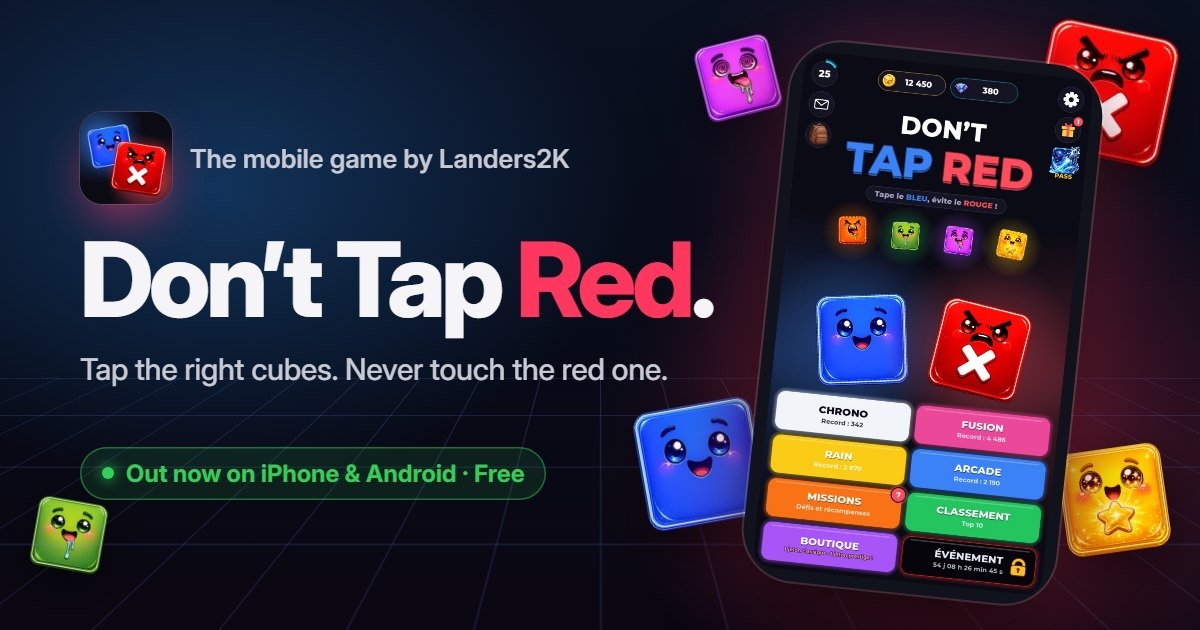
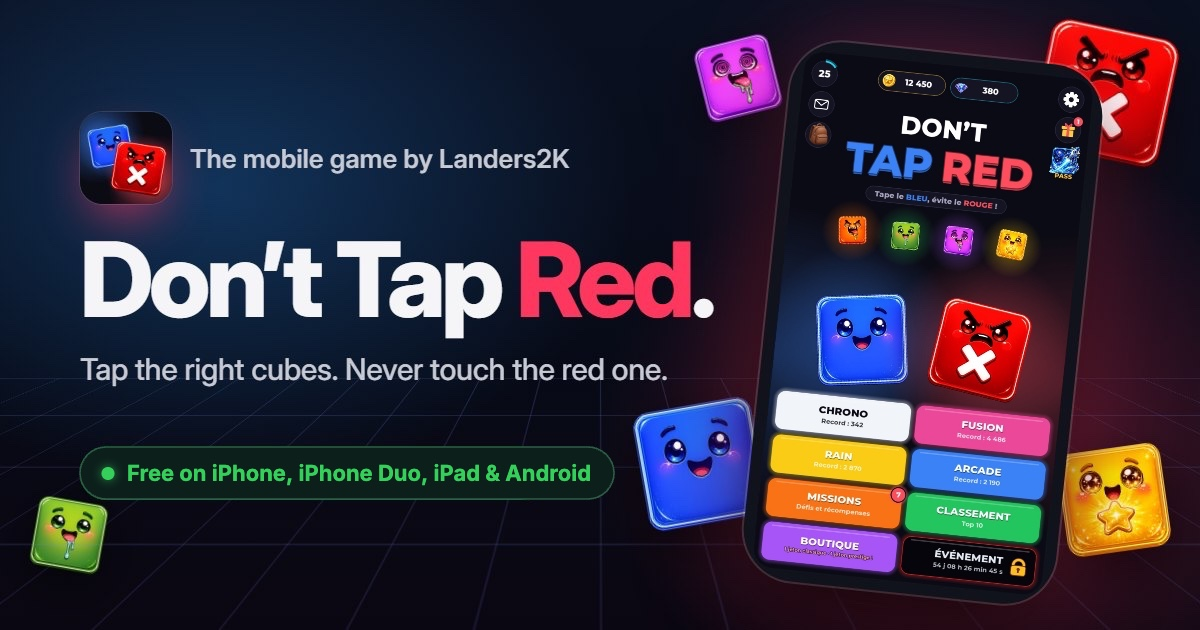
Images de partage de Don't Tap Red : badge iPhone, iPhone Duo, iPad et Android
Le badge vert dit « Gratuit sur iPhone, iPhone Duo, iPad et Android »
(« Free on iPhone, iPhone Duo, iPad & Android » en anglais), même style et
même place que l'ancien. Images passées à ?v=4.

Changed region(s): [[0.0925, 0.6937, 0.4933, 0.8143]]

diff --git a/dont-tap-red/index.html b/dont-tap-red/index.html
@@ -23,7 +23,7 @@
   <meta property="og:url" content="https://www.landers2k.com/dont-tap-red/">
   <meta property="og:title" content="Don’t Tap Red — disponible sur iPhone et Android">
   <meta property="og:description" content="Le jeu de réflexes gratuit de Landers2K sur iPhone et Android. Une seule règle : ne touche jamais le rouge.">
-  <meta property="og:image" content="https://www.landers2k.com/assets/img/partage-dtr.jpg?v=3">
+  <meta property="og:image" content="https://www.landers2k.com/assets/img/partage-dtr.jpg?v=4">
   <meta property="og:image:width" content="1200">
   <meta property="og:image:height" content="630">
   <meta name="twitter:card" content="summary_large_image">

diff --git a/dont-tap-red/en/index.html b/dont-tap-red/en/index.html
@@ -23,7 +23,7 @@
   <meta property="og:url" content="https://www.landers2k.com/dont-tap-red/en/">
   <meta property="og:title" content="Don’t Tap Red — out now on iPhone and Android">
   <meta property="og:description" content="The free reflex game by Landers2K for iPhone and Android. One single rule: never touch the red one.">
-  <meta property="og:image" content="https://www.landers2k.com/assets/img/partage-dtr-en.jpg?v=3">
+  <meta property="og:image" content="https://www.landers2k.com/assets/img/partage-dtr-en.jpg?v=4">
   <meta property="og:image:width" content="1200">
   <meta property="og:image:height" content="630">
   <meta name="twitter:card" content="summary_large_image">

diff --git a/dont-tap-red/presse/index.html b/dont-tap-red/presse/index.html
@@ -20,7 +20,7 @@
   <meta property="og:url" content="https://www.landers2k.com/dont-tap-red/presse/">
   <meta property="og:title" content="Kit presse — Don’t Tap Red">
   <meta property="og:description" content="Fiche du jeu, textes en français et en anglais, visuels en haute définition, vidéos et contact presse.">
-  <meta property="og:image" content="https://www.landers2k.com/assets/img/partage-dtr.jpg?v=3">
+  <meta property="og:image" content="https://www.landers2k.com/assets/img/partage-dtr.jpg?v=4">
   <meta property="og:image:width" content="1200">
   <meta property="og:image:height" content="630">
   <meta name="twitter:card" content="summary_large_image">

diff --git a/tools/build_dtr.py b/tools/build_dtr.py
@@ -196,7 +196,7 @@ head = f"""<!doctype html>
   <meta property="og:url" content="https://www.landers2k.com/dont-tap-red/">
   <meta property="og:title" content="Don’t Tap Red — disponible sur iPhone et Android">
   <meta property="og:description" content="Le jeu de réflexes gratuit de Landers2K sur iPhone et Android. Une seule règle : ne touche jamais le rouge.">
-  <meta property="og:image" content="https://www.landers2k.com/assets/img/partage-dtr.jpg?v=3">
+  <meta property="og:image" content="https://www.landers2k.com/assets/img/partage-dtr.jpg?v=4">
   <meta property="og:image:width" content="1200">
   <meta property="og:image:height" content="630">
   <meta name="twitter:card" content="summary_large_image">

diff --git a/tools/build_dtr_en.py b/tools/build_dtr_en.py
@@ -78,7 +78,7 @@ head = f"""<!doctype html>
   <meta property="og:url" content="https://www.landers2k.com/dont-tap-red/en/">
   <meta property="og:title" content="Don’t Tap Red — out now on iPhone and Android">
   <meta property="og:description" content="The free reflex game by Landers2K for iPhone and Android. One single rule: never touch the red one.">
-  <meta property="og:image" content="https://www.landers2k.com/assets/img/partage-dtr-en.jpg?v=3">
+  <meta property="og:image" content="https://www.landers2k.com/assets/img/partage-dtr-en.jpg?v=4">
   <meta property="og:image:width" content="1200">
   <meta property="og:image:height" content="630">
   <meta name="twitter:card" content="summary_large_image">

diff --git a/tools/build_presse.py b/tools/build_presse.py
@@ -290,7 +290,7 @@ head = f"""<!doctype html>
   <meta property="og:url" content="https://www.landers2k.com/dont-tap-red/presse/">
   <meta property="og:title" content="Kit presse — Don’t Tap Red">
   <meta property="og:description" content="Fiche du jeu, textes en français et en anglais, visuels en haute définition, vidéos et contact presse.">
-  <meta property="og:image" content="https://www.landers2k.com/assets/img/partage-dtr.jpg?v=3">
+  <meta property="og:image" content="https://www.landers2k.com/assets/img/partage-dtr.jpg?v=4">
   <meta property="og:image:width" content="1200">
   <meta property="og:image:height" content="630">
   <meta name="twitter:card" content="summary_large_image">
